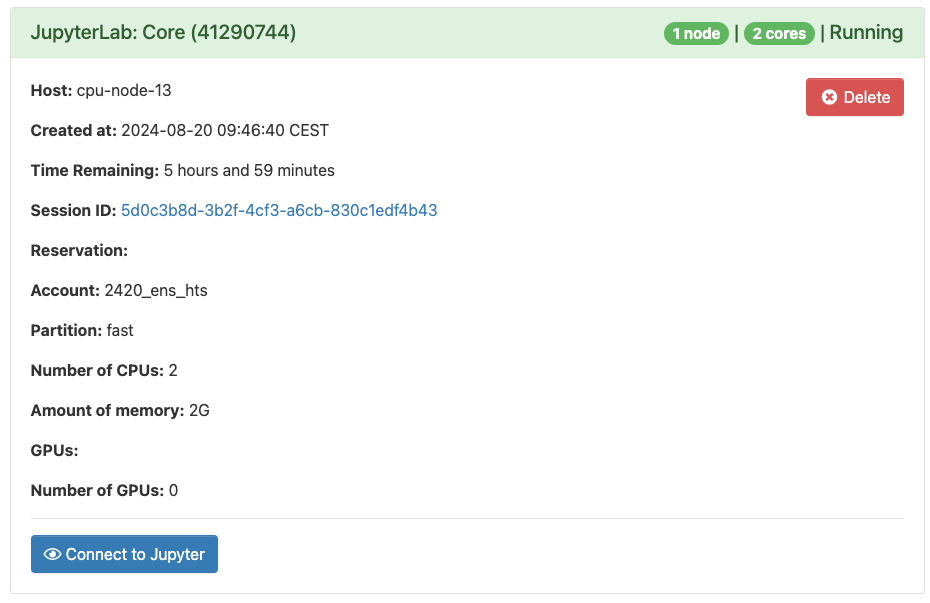
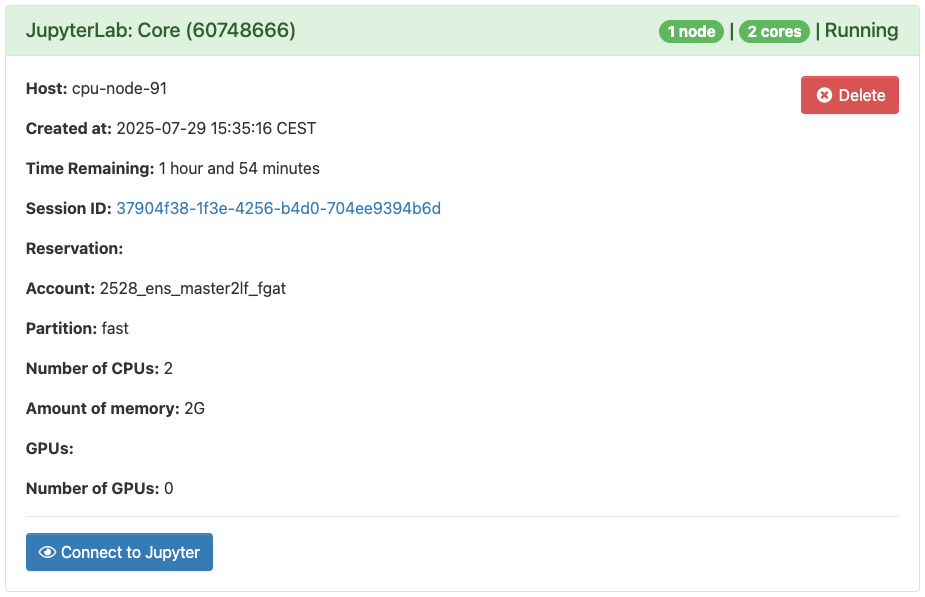
General documentation update
Date change and IFB server update

diff --git a/docs/IFB_OpenOnDemand.md b/docs/IFB_OpenOnDemand.md
@@ -28,8 +28,8 @@ Clic on the "JupyterLab" tile
 
 On the following screen you can select the option used by our JupyterHub server during the practical. Two nodes have been booked for our training session on IFB server. To build your server on these nodes select the following options:
 
-* Reservation: 2420_0
-* Account: 2420_ens_hts
+* Reservation: 2528_fgat
+* Account: 2528_ens_master2lf_fgat
 * Partition: fast
 * CPU: 2
 * Memory: 2G
@@ -67,8 +67,8 @@ Clic on the "RStudio Server" tile
 
 On the following screen you can select the option used by our RStudio server during the practical. Two nodes have been booked for our training session on IFB server. To build your server on these nodes select the following options:
 
-* Reservation: 2420_0
-* Account: 2420_ens_hts
+* Reservation: 2528_fgat
+* Account: 2528_ens_master2lf_fgat
 * Partition: fast
 * CPU: 2
 * Memory: 2G

diff --git a/docs/AIforCode.md b/docs/AIforCode.md
@@ -6,11 +6,10 @@ Embrace these technologies to stay ahead in the rapidly evolving field of bioinf
 The following tools are excellent resources:
 
 * [GitHub Copilot](https://github.com/features/copilot)
+* [Claude code](https://www.anthropic.com/claude-code)
 * [OpenAI's GPT models](https://chat.openai.com/)
 * [Google's Gemini](https://gemini.google.com/app)
 * [Codestral from Mistral Le Chat](https://chat.mistral.ai/chat)
-* [Tabnine](https://www.tabnine.com/)
-* [Codeium](https://codeium.com/)
 
 Many of these tools offer free versions for students, making them accessible for your academic projects. 
 

diff --git a/docs/index.md b/docs/index.md
@@ -1,6 +1,6 @@
 # Introduction
 
-This GitHub directory is used for the course "Functional genomic data analysis: transcriptomics 2024"
+This GitHub directory is used for the course "Functional genomic data analysis: transcriptomics 2025"
 
 ***
 
